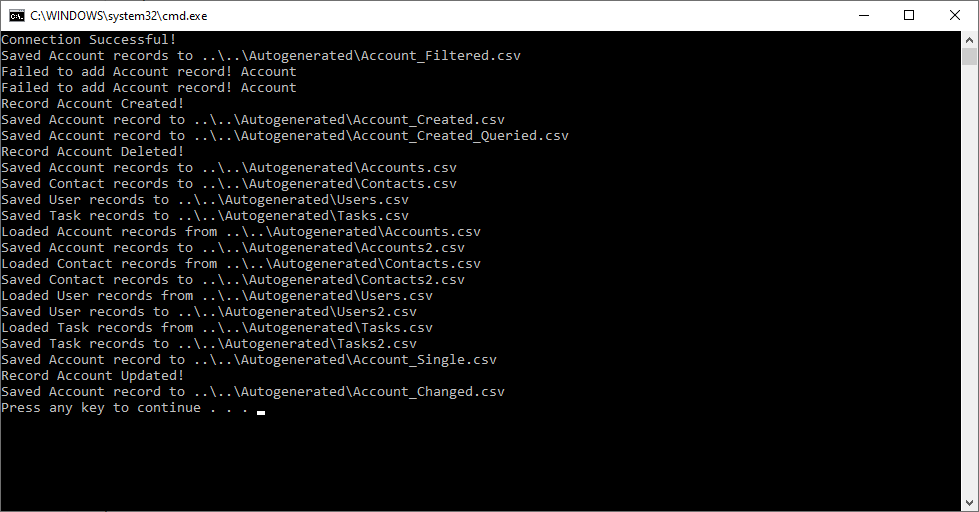
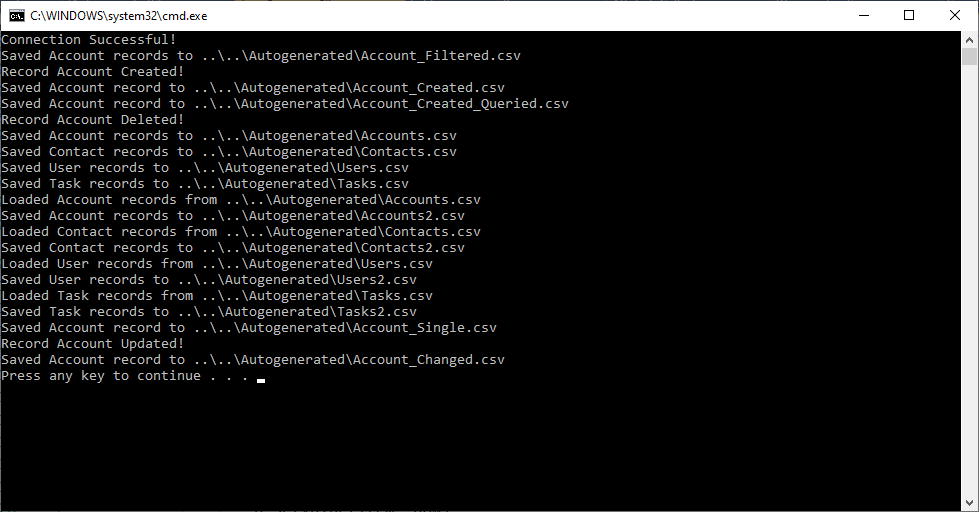
Use UTC time - 1 minute so that DateTime isn't in the future according to the server

diff --git a/AutoGeneratorClient.cs b/AutoGeneratorClient.cs
@@ -210,7 +210,7 @@ namespace DynamicsEntityGenerator
         {
             T item = new T();
 
-            DateTime now = DateTime.Now;
+            DateTime now = DateTime.UtcNow - TimeSpan.FromMinutes(1);
 
             PropertyInfo[] properties = typeof(T).GetProperties();
             foreach (PropertyInfo p in properties)
@@ -315,7 +315,7 @@ namespace DynamicsEntityGenerator
                     }
                     catch (Exception ex)
                     {
-                        Console.Error.WriteLine("Failed to add {0} record! {0}", typeof(T), ex);
+                        Console.Error.WriteLine("Failed to add {0} record! {1}", typeof(T), ex);
                     }
                     if (id != Guid.Empty)
                     {

diff --git a/Program.cs b/Program.cs
@@ -183,8 +183,8 @@ namespace DynamicsEntityGenerator
             if (oServiceProxy != null)
             {
                 //Get the current user ID:
-                Guid userid = ((WhoAmIResponse)oServiceProxy.Execute(new WhoAmIRequest())).UserId;
-
+                WhoAmIResponse whoAmI = (WhoAmIResponse)oServiceProxy.Execute(new WhoAmIRequest());
+                Guid userid = whoAmI.UserId;
                 if (userid != Guid.Empty)
                 {
                     Console.WriteLine("Connection Successful!");

diff --git a/README.md b/README.md
@@ -174,7 +174,7 @@ ConditionExpression condition =
 
 filter.AddCondition(condition);
 
-List <Account> records = client.RetrieveMultiple<Account>(query);
+List<Account> records = client.RetrieveMultiple<Account>(query);
 ```
 
 **Delete a record**
